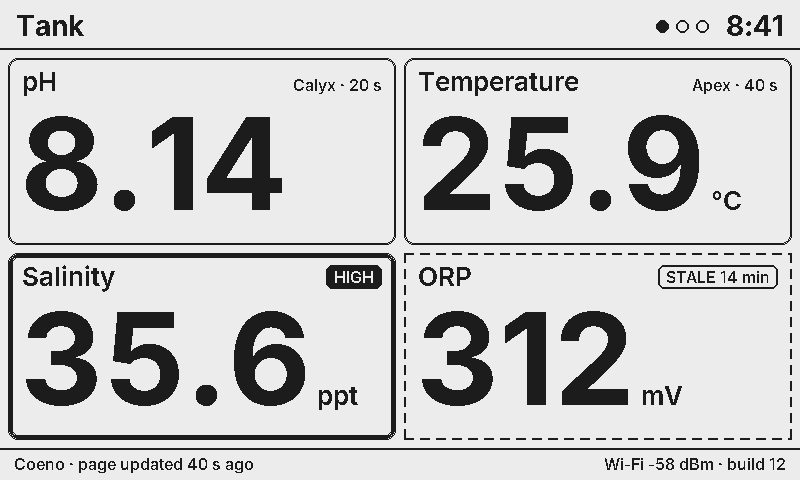
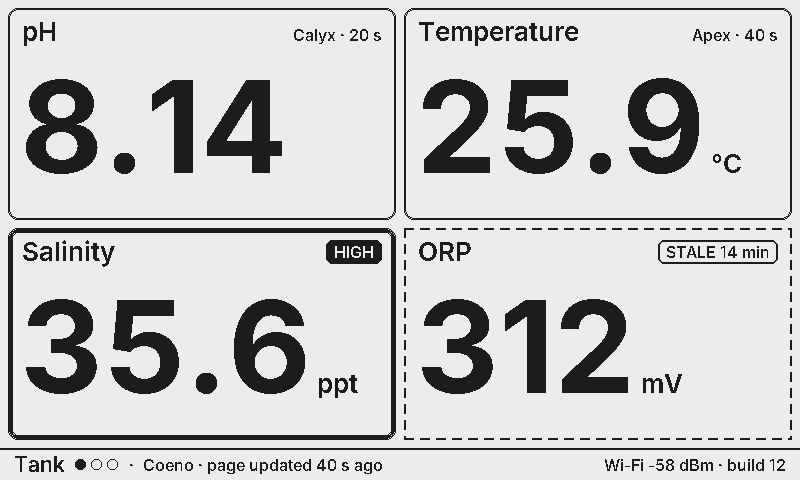
Gauge pages: no header, alarm takeover, honest graph ranges
- No header bar on gauge pages: title and page dots move into the footer, the
  tiles get the full height. (Message, setup and System screens keep theirs.)
  The clock goes; an unacknowledged alarm turns the footer black with its text.
- Alarm takeover: with one or two gauges in alarm, they get the left half
  (big value + 24 h trend) and the rest become a compact list on the right.
  Three or more alarms: the normal grid.
- Graph low/high now include the current value (pH 7.97 showed 'low 7.98'),
  values of 100+ drop decimals there, caption is '24 h  397 – 399'.
- Trends have a minimum height per unit (5 % humidity, 0.1 pH, 1 °F, 0.5 ppt,
  20 mV ...), so noise no longer looks like a swing.
- Host renders 18/19 (one and two alarms); docs/screens refreshed.

Claude-Session: https://claude.ai/code/session_01TP26oxsNUBWNE2a2ey2bNr

diff --git a/lib/panel/src/Render.cpp b/lib/panel/src/Render.cpp
@@ -18,6 +18,9 @@ constexpr int kHeaderH = 50;   // header / alarm banner
 constexpr int kFooterH = 32;
 constexpr int kBodyX = 8, kBodyY = kHeaderH + 8;
 constexpr int kBodyW = kW - 16, kBodyH = kH - kHeaderH - kFooterH - 16;
+// Gauge pages have no header (2026-11-06): the title and page dots sit in the
+// footer, and the tiles get the whole height above it.
+constexpr int kPageY = 8, kPageH = kH - kFooterH - 16;
 constexpr int kGap = 8;
 
 // ── small drawing helpers ────────────────────────────────────────────────
@@ -76,6 +79,21 @@ const GFXfont *valueFontFor(int w, int h, const char *val, int unitW) {
 }
 
 // Sparkline with the normal band drawn as dashed lines. Area is x,y,w,h.
+// The smallest change a trend should make look big. Without it a graph scales
+// 43.8-44.2 % humidity to full height and noise looks like a swing.
+static float minSpan(const Gauge &g, float mid) {
+  const char *u = g.unit;
+  if (!strcmp(u, "°F")) return 1.0f;
+  if (!strcmp(u, "°C")) return 0.5f;
+  if (!strcmp(u, "%")) return 5.0f;
+  if (!strcmp(u, "ppt") || !strcmp(u, "PSU")) return 0.5f;
+  if (!strcmp(u, "mV")) return 20.0f;
+  if (!strcmp(u, "dKH")) return 0.3f;
+  if (!strcmp(u, "ppm")) return fmaxf(10.0f, fabsf(mid) * 0.03f);
+  if (!strcmp(u, "pH") || strstr(g.label, "pH")) return 0.1f;
+  return fmaxf(4.0f * powf(10.0f, -(float)g.dec), fabsf(mid) * 0.02f);
+}
+
 void sparkline(Adafruit_GFX &d, const Gauge &g, int x, int y, int w, int h, uint16_t fg, bool labels) {
   if (g.nspark < 2 || w < 40 || h < 18) return;
   float mn = g.spark[0], mx = g.spark[0];
@@ -93,8 +111,13 @@ void sparkline(Adafruit_GFX &d, const Gauge &g, int x, int y, int w, int h, uint
       if (g.lo < mn) mn = g.lo;
       if (g.hi > mx) mx = g.hi;
     }
-    float span = mx - mn;
-    if (span < 1e-6f) span = fabsf(mx) * 0.02f + 0.1f;
+    float span = mx - mn, want = minSpan(g, (mn + mx) / 2);
+    if (span < want) {  // widen around the middle
+      float mid = (mn + mx) / 2;
+      mn = mid - want / 2;
+      mx = mid + want / 2;
+      span = want;
+    }
     mn -= span * 0.08f;
     mx += span * 0.08f;
   }
@@ -196,14 +219,22 @@ const GFXfont *tileValueFont(const Gauge &g, int w, int h, View view) {
 }
 
 // 24 h low / high of the trend, formatted like the value.
+// The trend points are 30-min means, so the value on the tile can sit outside
+// them: include it (pH 7.97 under "low 7.98" otherwise). Values of 100 and up
+// lose their decimals here ("397 – 399", not "397.0 – 399.0" cut off).
 static void sparkMinMax(const Gauge &g, char *lo, char *hi, size_t n) {
   float mn = g.spark[0], mx = g.spark[0];
   for (int i = 1; i < g.nspark; i++) {
     if (g.spark[i] < mn) mn = g.spark[i];
     if (g.spark[i] > mx) mx = g.spark[i];
   }
+  if (g.has && !isnan(g.value)) {
+    if (g.value < mn) mn = g.value;
+    if (g.value > mx) mx = g.value;
+  }
   Gauge t = g;
   t.has = true;
+  if (fabsf(mx) >= 100.0f) t.dec = 0;
   t.value = mn;
   formatValue(t, lo, n);
   t.value = mx;
@@ -263,9 +294,8 @@ void tile(Adafruit_GFX &d, const Gauge &g, int x, int y, int w, int h, const GFX
       if (caption) {
         char lo[16], hi[16], line[48];
         sparkMinMax(g, lo, hi, sizeof lo);
-        snprintf(line, sizeof line, "low %s · high %s", lo, hi);
-        drawTextFit(d, font::Small, x + pad, y + h - pad + 2, line, fg, w - 2 * pad - 70);
-        drawText(d, font::Small, x + w - pad, y + h - pad + 2, "24 h", fg, Right);
+        snprintf(line, sizeof line, "24 h  %s – %s", lo, hi);
+        drawTextFit(d, font::Small, x + pad, y + h - pad + 2, line, fg, w - 2 * pad);
       }
     } else {
       // Direct mode keeps one point per 30 min, so a trend needs about an hour.
@@ -306,16 +336,19 @@ void listRow(Adafruit_GFX &d, const Gauge &g, int x, int y, int w, int h, View v
   uint16_t fg = alarm ? PAPER : INK, bg = alarm ? INK : PAPER;
   if (alarm) d.fillRoundRect(x, y + 1, w, h - 2, 6, INK);
   int base = y + h / 2 + 8;
-  drawTextFit(d, font::Body, x + 12, base, g.label, fg, 250);
-  if (g.nspark >= 2 && view != View::Numbers) {
-    Gauge s = g;
-    s.hasRange = g.hasRange;
-    sparkline(d, s, x + 280, y + 6, 230, h - 12, fg, false);
-  }
   char val[16];
   formatValue(g, val, sizeof val);
   const GFXfont *vf = h >= 44 ? font::NumS : font::Body;
   int vx = x + w - 110;
+  // Narrow rows (the takeover's right side): the label gets what the value leaves.
+  int labelMax = vx - textWidth(vf, val) - (x + 12) - 14;
+  if (labelMax > 250) labelMax = 250;
+  drawTextFit(d, font::Body, x + 12, base, g.label, fg, labelMax);
+  if (g.nspark >= 2 && view != View::Numbers && w >= 560) {
+    Gauge s = g;
+    s.hasRange = g.hasRange;
+    sparkline(d, s, x + 280, y + 6, 230, h - 12, fg, false);
+  }
   drawText(d, vf, vx, base + (h >= 44 ? 4 : 0), val, fg, Right);
   drawTextFit(d, font::Small, vx + 6, base, g.unit, fg, 50);
   char note[24];
@@ -378,6 +411,72 @@ void footer(Adafruit_GFX &d, const Chrome &c) {
   int rw = c.footerRight[0] ? textWidth(font::Small, c.footerRight) : 0;
   drawTextFit(d, font::Small, 14, y + 22, c.footerLeft, fg, kW - rw - 50);
   if (rw) drawText(d, font::Small, kW - 14, y + 22, c.footerRight, fg, Right);
+}
+
+// Gauge pages: title and page dots on the left of the footer, then the
+// status; Wi-Fi / battery on the right. An unacknowledged alarm turns the
+// footer black with the alarm text (the takeover tile shows the reading).
+void pageFooter(Adafruit_GFX &d, const Page &p, const Chrome &c) {
+  int y = kH - kFooterH;
+  bool alarm = c.alarm[0] && !c.alarmAcked;
+  bool inv = alarm || c.footerAlert;
+  uint16_t fg = inv ? PAPER : INK;
+  if (inv) d.fillRect(0, y, kW, kFooterH, INK);
+  else d.fillRect(0, y, kW, 2, INK);
+  int base = y + 23;
+  int x = 14;
+  x += drawText(d, font::Body, x, base + 1, p.title[0] ? p.title : "Reef", fg) + 10;
+  if (c.pages > 1) {
+    for (int i = 0; i < c.pages; i++) {
+      int cx = x + 5;
+      if (i == c.page) d.fillCircle(cx, y + 16, 5, fg);
+      else d.drawCircle(cx, y + 16, 5, fg);
+      x += 16;
+    }
+    x += 6;
+  }
+  char left[96];
+  if (c.alarm[0]) {
+    if (c.alarmCount > 1)
+      snprintf(left, sizeof left, "▲ %s +%u more%s", c.alarm, (unsigned)(c.alarmCount - 1), c.alarmAcked ? " · acknowledged" : "");
+    else snprintf(left, sizeof left, "▲ %s%s", c.alarm, c.alarmAcked ? " · acknowledged" : "");
+  } else {
+    snprintf(left, sizeof left, "%s", c.footerLeft);
+  }
+  int rw = c.footerRight[0] ? textWidth(font::Small, c.footerRight) : 0;
+  drawText(d, font::Small, x, base, "·", fg);
+  drawTextFit(d, font::Small, x + 14, base, left, fg, kW - x - 14 - rw - 40);
+  if (rw) drawText(d, font::Small, kW - 14, base, c.footerRight, fg, Right);
+}
+
+// Alarm takeover: one or two gauges in alarm get the left half of the page,
+// big and with their trend; everything else is a compact list on the right.
+// Returns false (draw the normal grid) when there's no alarm, more than two,
+// or nothing else to show.
+bool takeover(Adafruit_GFX &d, const Page &p) {
+  int na = 0, ia[2] = {-1, -1};
+  for (int i = 0; i < p.n; i++)
+    if (p.g[i].status == Status::Alarm) {
+      if (na < 2) ia[na] = i;
+      na++;
+    }
+  if (na == 0 || na > 2 || p.n < 2) return false;
+  int lw = kBodyW * 52 / 100;
+  int th = na == 1 ? kPageH : (kPageH - kGap) / 2;
+  for (int k = 0; k < na; k++)
+    tile(d, p.g[ia[k]], kBodyX, kPageY + k * (th + kGap), lw, th, nullptr, View::Graphs);
+  int rx = kBodyX + lw + kGap, rw = kBodyW - lw - kGap;
+  int rest = p.n - na;
+  int rh = kPageH / rest;
+  if (rh > 74) rh = 74;
+  int y0 = kPageY + (kPageH - rh * rest) / 2;
+  int r = 0;
+  for (int i = 0; i < p.n; i++) {
+    if (i == ia[0] || i == ia[1]) continue;
+    listRow(d, p.g[i], rx, y0 + r * rh, rw, rh, View::Numbers);
+    r++;
+  }
+  return true;
 }
 
 // ── timeline page: one lane per gauge, time across ───────────────────────
@@ -469,9 +568,9 @@ void timeline(Adafruit_GFX &d, const Page &p) {
   auto T = [&](int x) { return p.from + (x - x0) * (float)span / pw; };
 
   int n = p.n;
-  int laneH = (kBodyH - axisH) / n;
+  int laneH = (kPageH - axisH) / n;
   if (laneH > 86) laneH = 86;
-  int top = kBodyY + 2 + (kBodyH - axisH - laneH * n) / 2;
+  int top = kPageY + 2 + (kPageH - axisH - laneH * n) / 2;
   int bot = top + laneH * n;  // axis line
 
   // Grid: dotted verticals at each tick.
@@ -640,8 +739,7 @@ void gridFor(const Page &p, int &cols, int &rows) {
 
 void render(Adafruit_GFX &d, const Page &p, const Chrome &c) {
   d.fillScreen(PAPER);
-  header(d, p, c);
-  footer(d, c);
+  pageFooter(d, p, c);
 
   if (p.n == 0) {
     drawText(d, font::Head, kW / 2, kH / 2 - 10, "No gauges on this page", INK, Center);
@@ -653,18 +751,19 @@ void render(Adafruit_GFX &d, const Page &p, const Chrome &c) {
     timeline(d, p);
     return;
   }
+  if ((p.layout == Layout::Auto || p.layout == Layout::Grid2x2 || p.layout == Layout::Grid3x2) && takeover(d, p)) return;
   int cols, rows;
   gridFor(p, cols, rows);
   if (cols == 0) {
     int n = p.n;
-    int rh = kBodyH / n;
+    int rh = kPageH / n;
     if (rh > 56) rh = 56;
-    int y0 = kBodyY + (kBodyH - rh * n) / 2;
+    int y0 = kPageY + (kPageH - rh * n) / 2;
     for (int i = 0; i < n; i++) listRow(d, p.g[i], kBodyX, y0 + i * rh, kBodyW, rh, p.view);
     return;
   }
   int tw = (kBodyW - (cols - 1) * kGap) / cols;
-  int th = (kBodyH - (rows - 1) * kGap) / rows;
+  int th = (kPageH - (rows - 1) * kGap) / rows;
   int n = p.n < cols * rows ? p.n : cols * rows;
   // One value size for the whole page, so tiles line up: the smallest any tile needs.
   const GFXfont *shared = nullptr;
@@ -674,7 +773,7 @@ void render(Adafruit_GFX &d, const Page &p, const Chrome &c) {
   }
   for (int i = 0; i < n; i++) {
     int cx = i % cols, cy = i / cols;
-    tile(d, p.g[i], kBodyX + cx * (tw + kGap), kBodyY + cy * (th + kGap), tw, th, shared, p.view);
+    tile(d, p.g[i], kBodyX + cx * (tw + kGap), kPageY + cy * (th + kGap), tw, th, shared, p.view);
   }
 }
 

diff --git a/tools/host/host_main.cpp b/tools/host/host_main.cpp
@@ -136,6 +136,17 @@ static void samples() {
   c.alarmCount = 1;
   shot(cv, "2-chem-3x2-alarm", [&](Adafruit_GFX &d) { render(d, q, c); });
   {
+    // Alarm takeover: the chemistry page with its alarm, and with two.
+    shot(cv, "18-takeover-one", [&](Adafruit_GFX &d) { render(d, q, c); });
+    Page q2 = q;
+    for (int k = 0; k < q2.n; k++)
+      if (q2.g[k].status != Status::Alarm) {
+        q2.g[k].status = Status::Alarm;
+        break;
+      }
+    shot(cv, "19-takeover-two", [&](Adafruit_GFX &d) { render(d, q2, c); });
+  }
+  {
     Page qg = q;
     qg.view = View::Graphs;
     qg.g[1].nspark = 0;  // one tile with no trend yet
